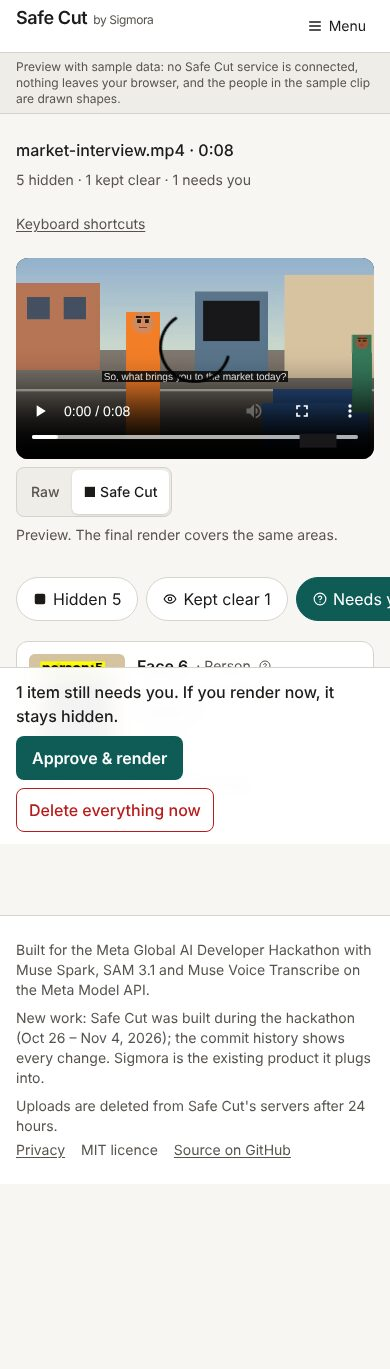
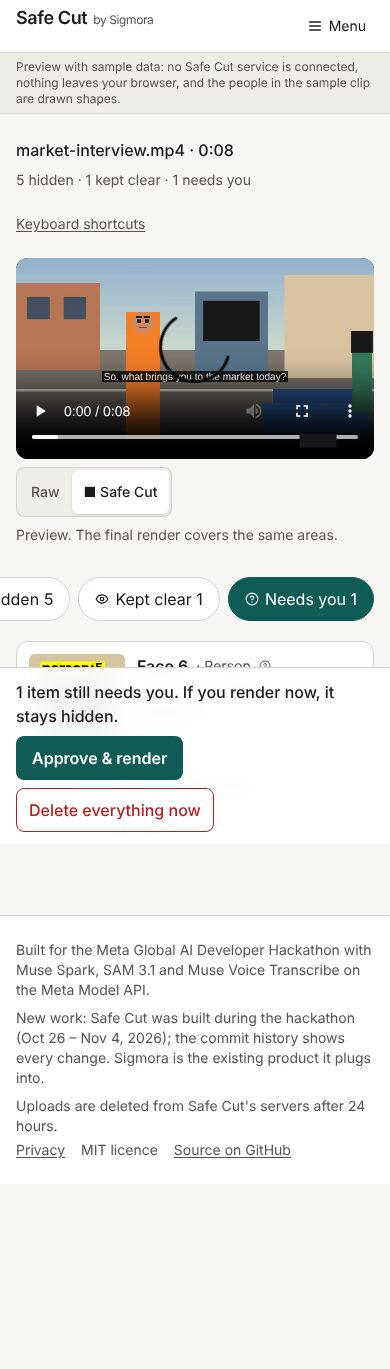
fix(web): audit round 8 (1 medium, 3 low): desktop review layout per 3.1, tab strip, focus after a failed delete
- Desktop: the player sits left, at most 40% of the viewport tall, with the
  Raw/Safe Cut switch beside it, so the first chip row is on the first
  screen and the preview stays in view; the decorative timeline is capped.
- Narrow phones: the open or focused tab is scrolled fully into its strip.
- A delete's error takes focus when its button is disabled (cooldown or
  in flight), so focus never drops to the page.
- Removed a stray e2e failure screenshot and git-ignored it.
- e2e adds first-screen, player-in-view and tab-strip checks; screenshots
  refreshed.

Claude-Session: https://claude.ai/code/session_01PMv2tTJFHGsGC5rcjHFfL1

Changed region(s): [[0.0, 0.3988, 1.0, 0.4602], [0.8923, 0.2148, 0.9538, 0.2761]]

diff --git a/web/src/components/review/ReviewPanel.tsx b/web/src/components/review/ReviewPanel.tsx
@@ -20,7 +20,7 @@ import { useCaptions } from "@/hooks/useCaptions";
 import { useNow } from "@/hooks/useNow";
 import { HiddenIcon, KeptIcon, NeedsIcon, WarningIcon } from "../icons";
 import { StageList } from "../StageList";
-import { ConfirmDialog, Dialog, btn } from "../ui";
+import { ActionError, ConfirmDialog, Dialog, btn } from "../ui";
 import { Chip, Thumbnail, type ChipHandlers } from "./Chip";
 import { VideoPane, type VideoPaneHandle } from "./VideoPane";
 import { WhyDrawer } from "./WhyDrawer";
@@ -63,6 +63,17 @@ export interface ReviewPanelProps {
   onRenderStarted: () => void;
   /** Query parameters kept across links (`from`, `demo`), e.g. "?from=sigmora". */
   query: string;
+}
+
+/** Scrolls a tab strip sideways so `tab` is fully in it (focus ring included); never the page. */
+function revealTab(tab: HTMLElement): void {
+  const strip = tab.parentElement;
+  if (!strip) return;
+  const s = strip.getBoundingClientRect();
+  const t = tab.getBoundingClientRect();
+  const margin = 16;
+  if (t.left < s.left + margin) strip.scrollLeft -= s.left + margin - t.left;
+  else if (t.right > s.right - margin) strip.scrollLeft += t.right - (s.right - margin);
 }
 
 export function ReviewPanel({ jobId, job, viewReview, onPatchJob, onResume, onRefreshMedia, onDeleted, onRenderStarted, query }: ReviewPanelProps) {
@@ -458,6 +469,12 @@ export function ReviewPanel({ jobId, job, viewReview, onPatchJob, onResume, onRe
   const firstTab: Column = columns.needs_you.length > 0 ? "needs_you" : "hide";
   const [tab, setTab] = useState<Column | null>(null);
   const activeTab = tab ?? firstTab;
+  // The open tab is often the last one ("Needs you"), past the edge of a narrow strip: bring it in.
+  useEffect(() => {
+    if (desktop) return;
+    const el = document.getElementById(`tab-${activeTab}`);
+    if (el) revealTab(el);
+  }, [activeTab, desktop]);
   const thumbSize = desktop ? 64 : 96;
   const duration = job.job ? formatFrame(job.job.frames, job.job.fps) : "";
   const empty = chips.length === 0;
@@ -562,6 +579,7 @@ export function ReviewPanel({ jobId, job, viewReview, onPatchJob, onResume, onRe
                   tabIndex={activeTab === col.key ? 0 : -1}
                   className={`flex min-h-11 shrink-0 items-center gap-1.5 rounded-full border px-4 ${activeTab === col.key ? "border-accent bg-accent text-accent-text" : "border-border bg-surface"}`}
                   onClick={() => setTab(col.key)}
+                  onFocus={(e) => revealTab(e.currentTarget)}
                   onKeyDown={(e) => {
                     if (e.key === "ArrowRight" || e.key === "ArrowLeft") {
                       e.preventDefault();
@@ -914,11 +932,7 @@ function BottomBar({
         <div className="flex flex-wrap items-center gap-2">
           {main}
           <span className="flex-1" />
-          {deleteError && (
-            <p role="alert" className="text-sm text-danger">
-              {deleteError}
-            </p>
-          )}
+          {deleteError && <ActionError message={deleteError} className="text-sm" />}
           {error && (
             <p role="alert" className="text-sm text-danger">
               {error}

diff --git a/web/src/components/review/VideoPane.tsx b/web/src/components/review/VideoPane.tsx
@@ -141,10 +141,15 @@ export const VideoPane = forwardRef<VideoPaneHandle, VideoPaneProps>(function Vi
   );
 
   return (
-    <div>
+    // Desktop (§3.1): the player on the left with the Raw/Safe Cut switch beside it, at most 40% of the
+    // viewport tall, so the chip columns start on the first screen and the preview stays in view.
+    <div
+      className="lg:grid lg:grid-cols-[auto_minmax(0,1fr)] lg:items-start lg:gap-x-6"
+      style={{ ["--player-lg-w" as string]: `min(calc(40vh * ${width} / ${height}), 52rem)` }}
+    >
       {/* Below 1024 px the player is at most 40% of the viewport tall, so chips stay reachable at 200% zoom and in landscape. */}
       <div
-        className="relative mx-auto w-[min(100%,var(--player-max-w))] overflow-hidden rounded-xl bg-black lg:w-full"
+        className="relative mx-auto w-[min(100%,var(--player-max-w))] overflow-hidden rounded-xl bg-black lg:mx-0 lg:w-[var(--player-lg-w)]"
         style={{ aspectRatio: `${width} / ${height}`, ["--player-max-w" as string]: `calc(40vh * ${width} / ${height})` }}
       >
         {failed ? (
@@ -178,7 +183,7 @@ export const VideoPane = forwardRef<VideoPaneHandle, VideoPaneProps>(function Vi
         )}
         <canvas ref={canvas} aria-hidden="true" className="pointer-events-none absolute inset-0 h-full w-full" />
       </div>
-      <div className="mt-2 flex flex-wrap items-center gap-x-4 gap-y-2 text-sm">
+      <div className="mt-2 flex flex-wrap items-center gap-x-4 gap-y-2 text-sm lg:col-start-2 lg:row-start-1 lg:mt-0 lg:flex-col lg:items-start">
         <div role="radiogroup" aria-label="Preview" className="inline-flex rounded-lg border border-border bg-surface-2 p-0.5">
           {(["raw", "safecut"] as const).map((m) => (
             <button
@@ -206,8 +211,9 @@ export const VideoPane = forwardRef<VideoPaneHandle, VideoPaneProps>(function Vi
         <p className="text-muted">Preview. The final render covers the same areas.</p>
         {!rvfc && <p className="text-muted">Preview may lag by a frame in this browser. The final render isn&apos;t affected.</p>}
       </div>
-      <div aria-hidden="true" className="relative mt-2 hidden flex-col gap-0.5 lg:flex">
-        {timeline.slice(0, 60).map((t) => (
+      {/* Decorative (the chips carry the same spans): the first 24 items, so a long list can't push the chips away. */}
+      <div aria-hidden="true" className="relative mt-2 hidden flex-col gap-0.5 lg:col-start-1 lg:flex lg:w-[var(--player-lg-w)]">
+        {timeline.slice(0, 24).map((t) => (
           <div key={t.id} className="relative h-1.5 rounded bg-surface-2">
             <div
               className={`absolute h-full rounded ${t.id === selected ? "bg-accent" : t.covered ? "bg-hidden-fg/40" : "bg-kept-fg/40"}`}

diff --git a/web/src/components/job/ResultPage.tsx b/web/src/components/job/ResultPage.tsx
@@ -17,7 +17,7 @@ import { useJob } from "@/hooks/useJob";
 import { CheckIcon, WarningIcon } from "../icons";
 import { useMode, useReportMode } from "../mode";
 import { StageList } from "../StageList";
-import { ConfirmDialog, MessagePage, btn } from "../ui";
+import { ActionError, ConfirmDialog, MessagePage, btn } from "../ui";
 import { FailedJob } from "./FailedJob";
 import { JobSkeleton, loadMessage } from "./JobPage";
 
@@ -287,11 +287,7 @@ export function ResultPage() {
       <div className="mt-10 flex flex-wrap items-center justify-between gap-3 border-t border-border pt-6">
         <p className="text-sm text-muted">This clip and everything Safe Cut made from it will be deleted from Safe Cut&apos;s servers by {formatLocal(r.deletes_at)}.</p>
         <div className="flex items-center gap-3">
-          {deleteError && (
-            <p role="alert" className="text-sm text-danger">
-              {deleteError}
-            </p>
-          )}
+          {deleteError && <ActionError message={deleteError} className="text-sm" />}
           <button type="button" className={btn.danger} disabled={coolingDown} onClick={() => setConfirm(true)}>
             Delete everything now
           </button>

diff --git a/web/src/components/job/FailedJob.tsx b/web/src/components/job/FailedJob.tsx
@@ -9,7 +9,7 @@ import { ApiError } from "@/lib/api";
 import { getClient } from "@/lib/client";
 import type { JobResponse } from "@/lib/contracts";
 import { COPY, expiresBefore, failureView, formatLocal, jobRefusalMessage } from "@/lib/copy";
-import { ConfirmDialog, btn } from "../ui";
+import { ActionError, ConfirmDialog, btn } from "../ui";
 
 export function FailedJob({ jobId, job, onResume, onDeleted }: { jobId: string; job: JobResponse; onResume: () => void; onDeleted: () => void }) {
   const view = failureView(job);
@@ -116,11 +116,7 @@ export function FailedJob({ jobId, job, onResume, onDeleted }: { jobId: string; 
           {note}
         </p>
       )}
-      {deleteError && (
-        <p role="alert" className="mt-3 text-danger">
-          {deleteError}
-        </p>
-      )}
+      {deleteError && <ActionError message={deleteError} className="mt-3" />}
       <ConfirmDialog
         open={confirm}
         title={job.has_render ? "Delete everything now?" : "Delete this clip?"}

diff --git a/web/src/components/job/ProgressView.tsx b/web/src/components/job/ProgressView.tsx
@@ -9,7 +9,7 @@ import { getClient } from "@/lib/client";
 import { useCooldown } from "@/hooks/useCooldown";
 import { COPY } from "@/lib/copy";
 import { StageList } from "../StageList";
-import { ConfirmDialog, btn } from "../ui";
+import { ActionError, ConfirmDialog, btn } from "../ui";
 
 export function fmtDuration(s: number): string {
   const whole = Math.round(s);
@@ -138,11 +138,7 @@ export function ProgressView({
         </span>
       </div>
       <div className="mt-4 flex flex-wrap items-center justify-end gap-3">
-        {deleteError && (
-          <p role="alert" className="text-danger">
-            {deleteError}
-          </p>
-        )}
+        {deleteError && <ActionError message={deleteError} />}
         <button type="button" className={btn.danger} disabled={coolingDown || deleting} onClick={() => setConfirm(true)}>
           Cancel and delete
         </button>

diff --git a/web/src/components/job/JobPage.test.tsx b/web/src/components/job/JobPage.test.tsx
@@ -369,6 +369,8 @@ describe("job states", () => {
     await user.click(screen.getByRole("button", { name: "Delete now" }));
     await user.click(within(await screen.findByRole("dialog")).getByRole("button", { name: "Delete" }));
     await waitFor(() => expect(screen.getByRole("button", { name: "Delete now" })).toBeDisabled());
+    // The disabled button can't keep focus, so the error takes it rather than the page (WCAG 2.4.3).
+    await waitFor(() => expect(screen.getByText("Too many tries in a short time. Wait a minute and try again.", { selector: "p[role=alert]" })).toHaveFocus());
   });
 
   it("a rate-limited Cancel and delete while processing waits out Retry-After", async () => {

diff --git a/web/src/components/ui.tsx b/web/src/components/ui.tsx
@@ -122,3 +122,20 @@ export function MessagePage({ message, actions }: { message: string; actions: Ar
     </section>
   );
 }
+
+/**
+ * A delete's error next to its control. It takes focus when it appears: the control may be
+ * disabled by then (a cooldown, a request in flight), and focus must not fall to the page (WCAG 2.4.3).
+ */
+export function ActionError({ message, className }: { message: string; className?: string }) {
+  const ref = useRef<HTMLParagraphElement>(null);
+  useEffect(() => {
+    ref.current?.focus();
+  }, [message]);
+  return (
+    <p ref={ref} role="alert" tabIndex={-1} className={`text-danger ${className ?? ""}`.trim()}>
+      {message}
+    </p>
+  );
+}
+

diff --git a/.agent/win/SAFECUT-WP6/reaudit.md b/.agent/win/SAFECUT-WP6/reaudit.md
@@ -1,4 +1,4 @@
-AUDITED_COMMIT: d4bb6a1
+AUDITED_COMMIT: a847826
 OPEN_CRITICAL: 0
 OPEN_HIGH: 0
 CLEAN_AUDITS_IN_A_ROW: 0
@@ -150,3 +150,14 @@ Fresh-clone README run also found: `pnpm typecheck` failed before any build (Nex
 | note | — | A double-confirmed Delete could race; nothing showed while a DELETE was pending | fixed: Cancel and delete is disabled until the DELETE answers |
 | note | — | §3.8's example name "Keep Plate 1 clear" | kept "Keep clear Plate 1": the accessible name must contain the visible label "Keep clear" (WCAG 2.5.3 Label in Name), which the spec's wording would break |
 | note | — | "This version hasn't been fully checked." sits in the §5.3 banner rather than the bar | kept: it shows once, directly under the §5.3 message as the row says; the bar repeats it only when no audit banner exists |
+
+## Round 8 (audited a847826 by a Sonnet reviewer; real-browser probes at 17 viewports including live resizes; each finding traced here; fixes in the next commit)
+
+0 critical, 0 high, 1 medium, 3 low. The round-7 layout changes held: no horizontal scroll, footer reachable and focus never hidden at any probed size.
+
+| # | Sev | Finding | Status |
+|---|---|---|---|
+| 1 | med | On desktop the static player was full container width (about 750 px tall at 1280×720), so no chip showed on the first screen and the preview scrolled away while editing (§3.1) | fixed: the §3.1 layout. The player is on the left, at most 40% of the viewport tall; the Raw/Safe Cut switch and note sit beside it; the decorative timeline is capped at 24 rows. e2e at 1280×720 and 1366×768: the first chip row starts on screen (top 568 and 587) and the player stays in view with a chip focused |
+| 2 | low | On narrow phones the open tab ("Needs you", the last) was clipped and focusing it didn't scroll it in | fixed: the strip scrolls sideways so the open or focused tab, focus ring included, is fully in it (never the page). e2e at 320 and 390 px |
+| 3 | low | After a rate-limited or failed delete the trigger was disabled and focus fell to `<body>` (WCAG 2.4.3) | fixed: the delete error (`ActionError`) takes focus when it appears, on progress, failed, result and review. JobPage test |
+| 4 | low | A stray `web/e2e-failure.png` from a debug run was committed | removed and git-ignored |

diff --git a/.agent/win/SAFECUT-WP6/HANDOFF.md b/.agent/win/SAFECUT-WP6/HANDOFF.md
@@ -35,6 +35,11 @@
   - The first frame on step C.
 - On the round-7 commit: 801 tests (27 files), e2e 81/81, `checks.sh` exit 0. Screenshots refreshed.
 - The audit agent hit the usage limit once (19:5x to 23:20 UTC). It resumed with SendMessage, keeping its saved work.
+- Audit round 8 (on a847826): 1 medium and 3 low, all fixed in the round-8 commit. Highlights:
+  - The §3.1 desktop layout, with the player capped and the chips on the first screen.
+  - The tab strip reveals the open tab.
+  - A delete error takes focus.
+- On the round-8 commit: 801 tests, e2e 87/87, `checks.sh` exit 0. Screenshots refreshed.
 - CLEAN_AUDITS_IN_A_ROW is 0. Two clean full audits are still needed, then a fresh break-it.md (fresh clone + FUZZ_RUNS=100000).
 
 ## Next steps, in order

diff --git a/.agent/win/SAFECUT-WP6/WIN-CHECKLIST.md b/.agent/win/SAFECUT-WP6/WIN-CHECKLIST.md
@@ -119,3 +119,10 @@ Round 7 (fixes in the round-7 commit; details in `reaudit.md`):
 - [x] R7-n2 one delete at a time
 - [-] R7-n3 "Keep Plate 1 clear" naming: kept "Keep clear Plate 1" for WCAG 2.5.3
 
+Round 8 (fixes in the round-8 commit; details in `reaudit.md`):
+
+- [x] R8-1 (med) §3.1 desktop layout: capped player with the switch beside it, chips on the first screen: e2e
+- [x] R8-2 (low) the open tab is scrolled into its strip on narrow phones: e2e 320/390
+- [x] R8-3 (low) a failed delete's error takes focus: JobPage test
+- [x] R8-4 (low) stray debug screenshot removed and ignored
+
